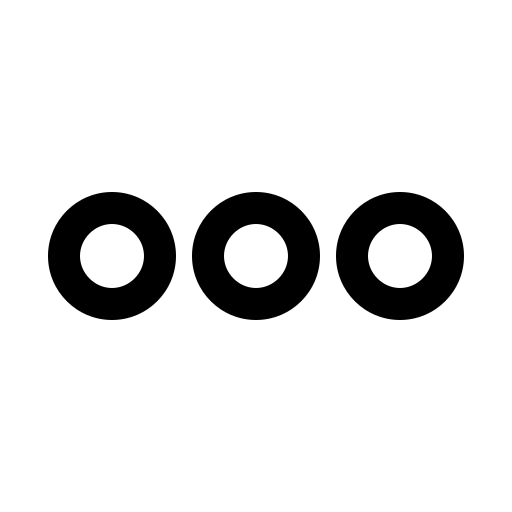
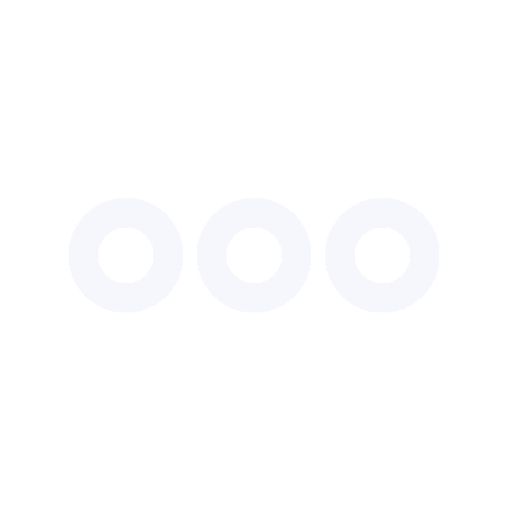
Иконки

Changed region(s): [[0.6562, 0.375, 0.9062, 0.625], [0.375, 0.375, 0.625, 0.625], [0.0938, 0.375, 0.3438, 0.625]]

diff --git a/templates/distribution.html b/templates/distribution.html
@@ -150,7 +150,7 @@
     .icons {
         border: none; /* Убираем границу */
         background: none; /* Убираем фон */
-        padding: 0; /* Убираем внутренние отступы */
+        padding: 5px; /* Убираем внутренние отступы */
         margin: 0; /* Убираем внешние отступы */
         font: inherit; /* Используем наследуемый шрифт */
         cursor: pointer; /* Делаем курсор указателем */
@@ -160,11 +160,14 @@
 
     .icons:hover {
         cursor: pointer;
+        opacity: 0.60;
     }
 
     .icons_img {
-        max-width: 90%;
-        max-height: 90%;
+        max-width: 100%;
+        max-height: 100%;
+        align-items: center;
+        display: flex;
     }
 
     .logout icons_img {
